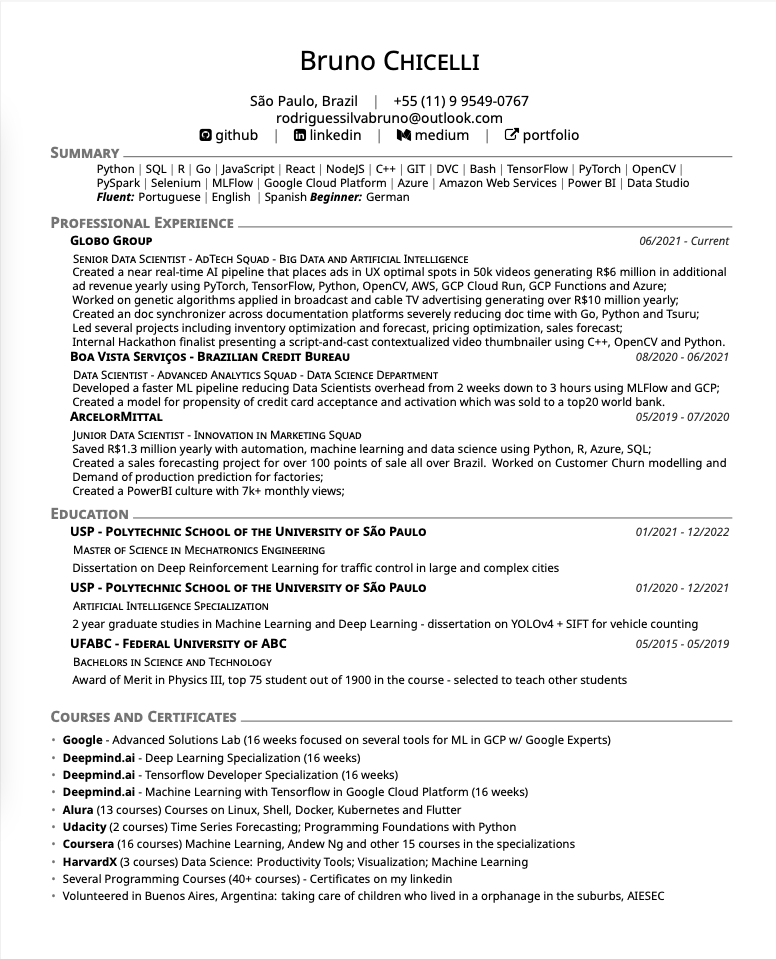
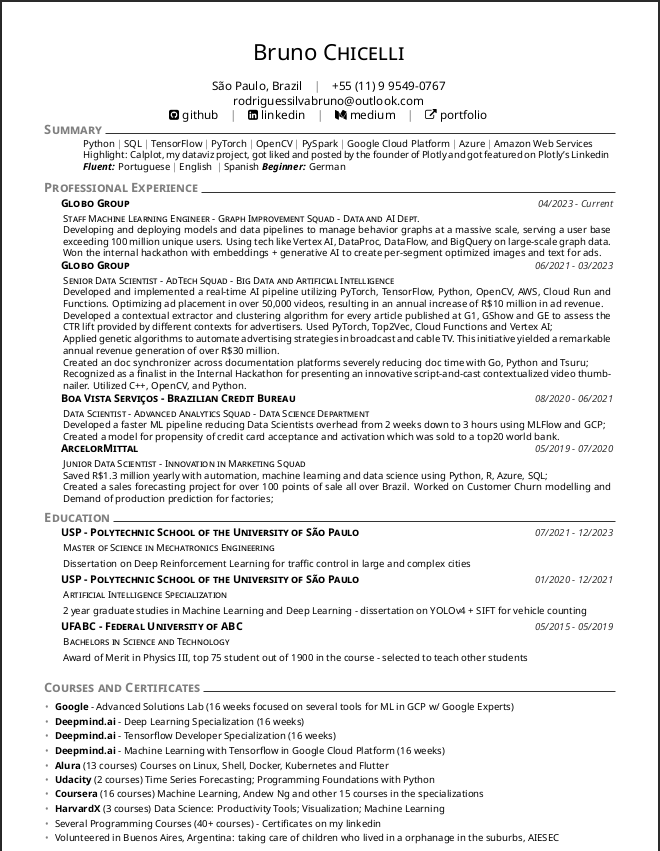
update (it's been too long)

Changed region(s): [[0.0606, 0.0306, 0.9394, 1.0], [0.9697, 0.0, 1.0, 0.0306], [0.0, 0.0, 0.0303, 0.0306]]

diff --git a/cv.tex b/cv.tex
@@ -8,7 +8,7 @@
 \setlinkedinaccount{https://www.linkedin.com/in/brunorosilva/} %you can play with color of the template (red is also nice..)
 \setgithubaccount{https://github.com/brunorosilva} %you can play with color of the template (red is also nice..)
 \setmediumaccount{https://medium.com/@brunorosilva}
-\setexternallink{https://rosilva.carrd.co/}
+\setexternallink{https://brunorosilva.github.io/}
 
 \setthemecolor{gray} %you can play with color of the template (red is also nice..)
 
@@ -22,26 +22,31 @@
 % Summary
 \addblocktext{Summary}{
 \explanationdetail{
-Python\cpshalf SQL\cpshalf R\cpshalf Go\cpshalf JavaScript\cpshalf React\cpshalf NodeJS\cpshalf C++\cpshalf GIT\cpshalf DVC\cpshalf Bash\cpshalf TensorFlow\cpshalf PyTorch\cpshalf OpenCV\cpshalf \\PySpark\cpshalf Selenium\cpshalf MLFlow\cpshalf Google Cloud Platform\cpshalf Azure\cpshalf Amazon Web Services\cpshalf Power BI\cpshalf Data Studio
-\\\textbf{\emph{Fluent:}} Portuguese\cpshalf English \cpshalf Spanish \textbf{\emph{Beginner:}} German}}
+Python\cpshalf SQL\cpshalf TensorFlow\cpshalf PyTorch\cpshalf OpenCV\cpshalf PySpark\cpshalf Google Cloud Platform\cpshalf Azure\cpshalf Amazon Web Services \\
+Highlight: \href{https://github.com/brunorosilva/plotly-calplot/tree/main}{Calplot}, my dataviz project, got liked and posted by the founder of Plotly and got featured on Plotly's Linkedin\\
+\textbf{\emph{Fluent:}} Portuguese\cpshalf English \cpshalf Spanish \textbf{\emph{Beginner:}} German}}
     
 %% Experience
 \section{Professional Experience}
 %
-    \datedexperience{Globo Group}{06/2021 - Current} 
+    \datedexperience{Globo Group}{04/2023 - Current} 
+    \explanation{Staff Machine Learning Engineer - Graph Improvement Squad - Data and AI Dept.} 
+    \explanationdetail{ 
+    Developing and deploying models and data pipelines to manage behavior graphs at a massive scale, serving a user base exceeding 100 million unique users. Using tech like Vertex AI, DataProc, DataFlow, and BigQuery on large-scale graph data. 
+    Won the internal hackathon with embeddings + generative AI to create per-segment optimized images and text for ads. 
+    }
+    \datedexperience{Globo Group}{06/2021 - 03/2023} 
     \explanation{Senior Data Scientist - AdTech Squad - Big Data and Artificial Intelligence} 
     \explanationdetail{ 
+ Developed and implemented a real-time AI pipeline utilizing PyTorch, TensorFlow, Python, OpenCV, AWS, Cloud Run and Functions. Optimizing ad placement in over 50,000 videos, resulting in an annual increase of R\$10 million in ad revenue.
 
- Created a near real-time AI pipeline that places ads in UX optimal spots in 50k videos generating R\$6 million in additional ad revenue yearly using PyTorch, TensorFlow, Python, OpenCV, AWS, GCP Cloud Run, GCP Functions and Azure;
+ Developed a contextual extractor and clustering algorithm for every article published at G1, GShow and GE to assess the CTR lift provided by different contexts for advertisers. Used PyTorch, Top2Vec, Cloud Functions and Vertex AI;
  
- Worked on genetic algorithms applied in broadcast and cable TV advertising generating over R\$120 million yearly;
- 
+ Applied genetic algorithms to automate advertising strategies in broadcast and cable TV. This initiative yielded a remarkable annual revenue generation of over R\$30 million.
+
  Created an doc synchronizer across documentation platforms severely reducing doc time with Go, Python and Tsuru;
  
-Led several projects including inventory optimization and forecast, pricing optimization, sales forecast;
-
-Internal Hackathon finalist presenting a script-and-cast contextualized video thumbnailer using C++, OpenCV and Python.
- 
+ Recognized as a finalist in the Internal Hackathon for presenting an innovative script-and-cast contextualized video thumbnailer. Utilized C++, OpenCV, and Python.
 }
     \datedexperience{Boa Vista Serviços - Brazilian Credit Bureau}{08/2020 - 06/2021} 
     \explanation{Data Scientist - Advanced Analytics Squad - Data Science Department} 
@@ -57,15 +62,13 @@ Internal Hackathon finalist presenting a script-and-cast contextualized video th
     Saved R\$1.3 million yearly with automation, machine learning and data science using Python, R, Azure, SQL;
     
     Created a sales forecasting project for over 100 points of sale all over Brazil. Worked on Customer Churn modelling and Demand of production prediction for factories;
-    
-    Created a PowerBI culture with 7k+ monthly views;
 
      }     
     %
   
 %Education
 \section{Education}
-    \datedexperience{USP - Polytechnic School of the University of São Paulo}{01/2021 - 12/2022} 
+    \datedexperience{USP - Polytechnic School of the University of São Paulo}{07/2021 - 12/2023} 
     \explanation{Master of Science in Mechatronics Engineering} 
     \explanationdetail{ 
     Dissertation on Deep Reinforcement Learning for traffic control in large and complex cities}
